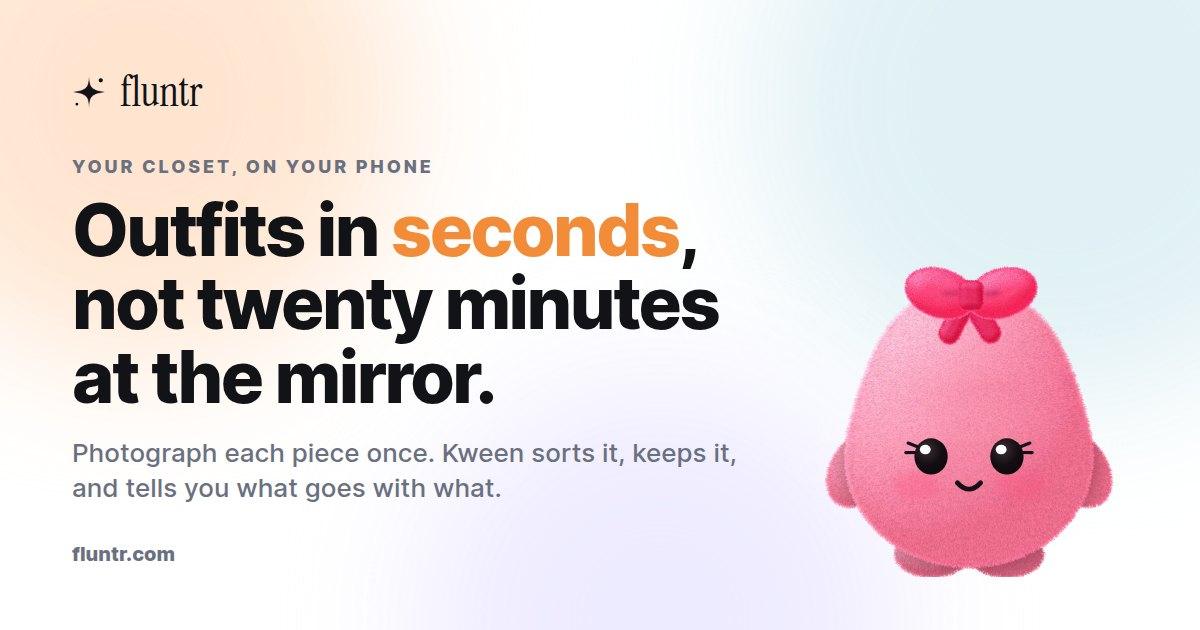
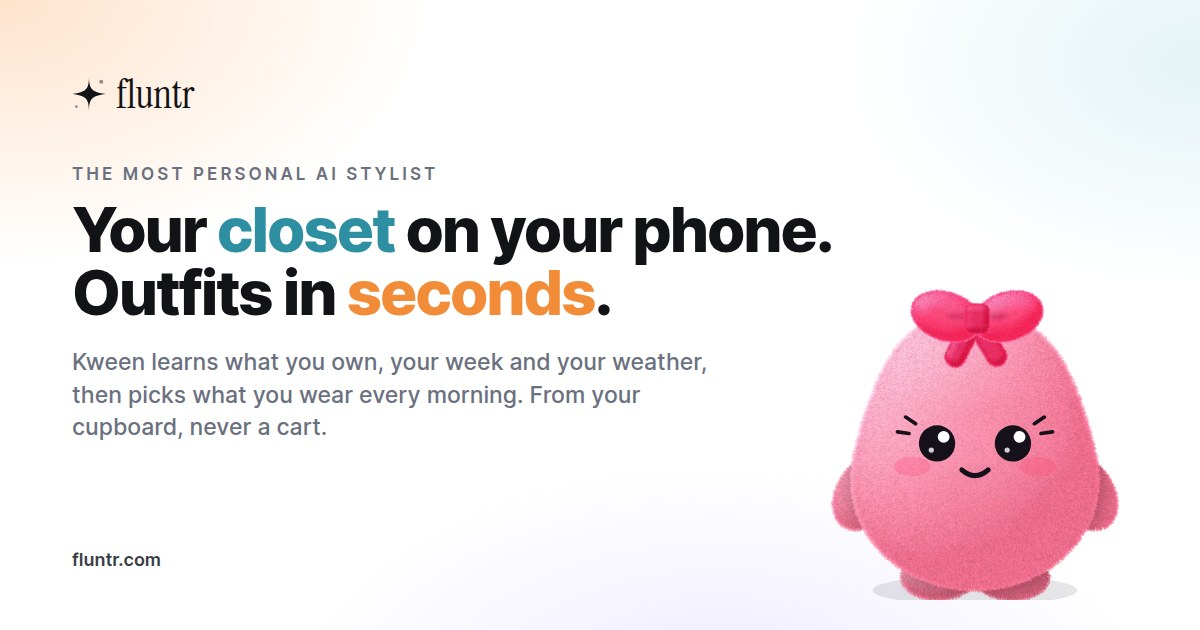
web: Fluntr is the most personal AI stylist, not only a closet
The site now says what the app is: a closet on your phone and the most
personal AI stylist, because Kween only knows your clothes, your city,
your week and your taste. New stylist section after the hero with the
app's Today card and what she does (daily outfit, fit check, events and
trips, wear history, insights, laundry), in the app's own words.

Headline, eyebrow, title, description, share image, structured data,
manifest, nav, the demo's last step, the questions pages and llms.txt
all carry the positioning. Two new questions explain it.

Claude-Session: https://claude.ai/code/session_01RpooKPm1A8SR7Pq2dxJABW

Changed region(s): [[0.0, 0.0, 1.0, 0.9651], [0.0617, 0.8746, 0.1542, 0.9048], [0.8942, 0.6032, 0.925, 0.6333]]

diff --git a/components/motion/Stylist.jsx b/components/motion/Stylist.jsx
@@ -1,0 +1,127 @@
+'use client'
+import { motion, useReducedMotion } from 'framer-motion'
+import TiltCard from './TiltCard'
+import { Device, Cut, Glyph, TabBar, byId } from './Demo'
+import { KweenPerch } from './KweenRoamer'
+
+/**
+ * The stylist. Fluntr is a closet on your phone and the most personal AI
+ * stylist there is, because Kween only knows your clothes, your city, your
+ * week and your taste. Everything listed here is what the app's stylist does
+ * (src/components/stylist, app/fit-check, app/day-events, app/outfit-calendar,
+ * app/insights, app/laundry), in the words the app uses.
+ */
+
+const INK = '#121317'
+const MUTED = '#6B7080'
+const FILL = 'rgba(118,118,128,0.10)'
+const SOFT = '#F5F5F7'
+
+const ROWS = [
+  { k: 'sun', tone: '#F28C38', title: 'Today’s outfit, every morning', body: 'For your weather, your dress code and your plans. Two alternatives a tap away, each with the reason it was picked. One tap logs it as worn.' },
+  { k: 'camera', tone: '#7B6CF6', title: 'Fit check', body: 'A mirror selfie: what works, the one change that would help most, and a score. Clothes only, never your body. The photo is deleted straight after.' },
+  { k: 'calendar', tone: '#2E8FA3', title: 'Events, festivals and trips', body: 'Weddings, interviews, Diwali, Eid, a trip. She plans the outfit days ahead and reminds you. Trips get a packing list for the weather there.' },
+  { k: 'clock', tone: '#4F9D6B', title: 'Wear history', body: 'Plan a day, mark it worn. She knows what has not been out in 60 days, and stops you repeating a look at the same event.' },
+  { k: 'stats', tone: '#3C6DD9', title: 'Insights', body: 'How much of your closet actually gets worn, cost per wear, your go-to pieces, and the gaps worth filling within your budget.' },
+  { k: 'water', tone: '#2E8FA3', title: 'Laundry', body: 'Put pieces in the wash from the Today card. She will not suggest them again until they are clean.' },
+]
+
+const list = { hidden: {}, show: { transition: { staggerChildren: 0.09, delayChildren: 0.1 } } }
+const item = { hidden: { opacity: 0, y: 18 }, show: { opacity: 1, y: 0, transition: { duration: 0.55, ease: [0.16, 1, 0.3, 1] } } }
+
+/** The Today card from the app's Home tab (src/components/stylist/TodayCard.tsx), at rest. */
+function TodayScreen() {
+  const reduce = useReducedMotion()
+  const outfit = ['kurti', 'jeans', 'sneakers']
+  return (
+    <div className="absolute inset-0 overflow-hidden" style={{ background: '#fff' }}>
+      <div className="flex items-center justify-between px-4 pt-[12%]">
+        <Glyph k="bell" size={22} sw={2} />
+        <span style={{ fontSize: 19, fontWeight: 800, letterSpacing: '-0.02em', color: '#0A0A0A' }}>Fluntr</span>
+        <Glyph k="chat" size={22} sw={2} />
+      </div>
+
+      <motion.div className="mx-3 mt-3" style={{ borderRadius: 22, background: '#fff', border: '1px solid rgba(10,10,10,0.08)', boxShadow: '0 4px 14px rgba(0,0,0,0.06)', padding: 14 }} variants={list} initial={reduce ? false : 'hidden'} whileInView="show" viewport={{ once: true, amount: 0.4 }}>
+        <div className="flex items-start justify-between">
+          <div>
+            <div style={{ fontSize: 15, fontWeight: 700, color: '#0A0A0A', letterSpacing: '-0.01em' }}>Good morning, Priya</div>
+            <div style={{ fontSize: 12, color: 'rgba(10,10,10,0.64)', marginTop: 2 }}>Smart casual · Tuesday</div>
+          </div>
+          <span className="flex items-center gap-1" style={{ background: FILL, borderRadius: 999, padding: '5px 9px', fontSize: 11.5, fontWeight: 600, color: '#0A0A0A' }}><Glyph k="sun" color="#F28C38" size={13} />31° / 24°</span>
+        </div>
+        <div className="mt-3 grid grid-cols-3 gap-2">
+          {outfit.map(id => (
+            <motion.div key={id} variants={item} className="relative overflow-hidden" style={{ aspectRatio: '1 / 1.15', borderRadius: 14, background: SOFT }}>
+              <div className="absolute inset-[9%]"><Cut id={id} /></div>
+            </motion.div>
+          ))}
+        </div>
+        <motion.div variants={item} className="mt-3 flex items-start gap-2" style={{ fontSize: 11.5, lineHeight: 1.35, color: 'rgba(10,10,10,0.64)' }}>
+          <Glyph k="sparkle" color="#F28C38" size={13} />
+          <span>Office day and 31°. The olive kurti has not been out in three weeks, and the sneakers go with everything.</span>
+        </motion.div>
+        <motion.div variants={item} className="mt-3 flex gap-2">
+          <motion.span className="flex flex-1 items-center justify-center gap-1.5" style={{ height: 40, borderRadius: 999, background: '#0A0A0A', color: '#fff', fontSize: 13, fontWeight: 600 }} animate={reduce ? undefined : { scale: [1, 1.03, 1] }} transition={{ duration: 1.6, repeat: Infinity, ease: 'easeInOut' }}><Glyph k="check" color="#fff" size={14} />Wearing this</motion.span>
+          <span className="flex items-center justify-center" style={{ height: 40, padding: '0 16px', borderRadius: 999, background: FILL, fontSize: 13, fontWeight: 600, color: '#0A0A0A' }}>Another</span>
+        </motion.div>
+        <motion.div variants={item} className="mt-3 flex items-center gap-2 pt-3" style={{ borderTop: '1px solid rgba(10,10,10,0.08)', fontSize: 12 }}>
+          <Glyph k="calendar" size={14} />
+          <span className="flex-1" style={{ color: '#0A0A0A', fontWeight: 500 }}>Wedding in 3 days</span>
+          <span style={{ fontWeight: 600, color: '#0A0A0A' }}>Plan outfit</span>
+        </motion.div>
+      </motion.div>
+
+      <div className="mx-3 mt-3" style={{ borderRadius: 22, background: SOFT, padding: 14 }}>
+        <div className="flex items-center justify-between" style={{ fontSize: 11.5, color: 'rgba(10,10,10,0.64)' }}><span>Quick question</span><span style={{ color: 'rgba(10,10,10,0.4)' }}>Not now</span></div>
+        <div className="mt-1.5" style={{ fontSize: 14, fontWeight: 600, color: '#0A0A0A' }}>How do you like tops to fit?</div>
+        <div className="mt-2.5 flex gap-2">
+          {['Fitted', 'Regular', 'Relaxed'].map((o, i) => <span key={o} style={{ height: 32, padding: '0 14px', borderRadius: 999, fontSize: 12, fontWeight: 600, lineHeight: '32px', background: i === 1 ? '#0A0A0A' : '#fff', color: i === 1 ? '#fff' : '#0A0A0A', border: '1px solid rgba(10,10,10,0.1)' }}>{o}</span>)}
+        </div>
+      </div>
+      <TabBar active="home" />
+    </div>
+  )
+}
+
+export default function Stylist() {
+  const reduce = useReducedMotion()
+  return (
+    <section id="stylist" className="relative scroll-mt-20 overflow-hidden px-4 py-20 md:px-6 md:py-28">
+      <div aria-hidden className="pointer-events-none absolute inset-0" style={{ background: 'radial-gradient(50% 45% at 85% 10%, rgba(242,140,56,0.12), transparent 60%), radial-gradient(45% 40% at 10% 90%, rgba(123,108,246,0.10), transparent 60%)' }} />
+      <div className="relative mx-auto max-w-6xl">
+        <motion.div initial={reduce ? false : { opacity: 0, y: 24 }} whileInView={{ opacity: 1, y: 0 }} viewport={{ once: true, amount: 0.4 }} transition={{ duration: 0.7, ease: [0.16, 1, 0.3, 1] }} className="max-w-3xl">
+          <p className="text-eyebrow mb-5">The most personal AI stylist</p>
+          <h2 className="h-display" style={{ fontSize: 'clamp(34px,4.6vw,64px)', color: INK }}>
+            She only knows <span style={{ color: '#F28C38' }}>your</span> clothes. That is the point.
+          </h2>
+          <p className="mt-6 max-w-2xl text-[18px] leading-relaxed md:text-[20px]" style={{ color: MUTED }}>
+            A shop’s stylist wants you to buy. Kween wants you to wear. She learns what you own, your city, your week and your taste, and picks from that, every morning, in English or Hindi. The answer is always something in your cupboard, never something in a cart.
+          </p>
+        </motion.div>
+
+        <div className="mt-14 grid items-start gap-12 lg:grid-cols-[minmax(0,360px)_1fr] lg:gap-16">
+          <div className="flex flex-col items-center lg:items-start">
+            <div className="relative" style={{ width: 'min(84vw, 340px)' }}>
+              <TiltCard max={5} sheen={false}><Device><TodayScreen /></Device></TiltCard>
+              <motion.span className="pointer-events-none absolute z-20 hidden whitespace-nowrap md:block" style={{ left: '-26%', top: '12%', background: '#F28C38', color: '#fff', borderRadius: 999, padding: '8px 14px', fontSize: 13, fontWeight: 700, boxShadow: '0 14px 30px -10px #F28C38aa' }} animate={reduce ? undefined : { y: [0, -7, 0] }} transition={{ duration: 3, repeat: Infinity, ease: 'easeInOut' }}>7:00 · your outfit is ready</motion.span>
+              <motion.span className="pointer-events-none absolute z-20 hidden whitespace-nowrap md:block" style={{ left: '74%', top: '58%', background: '#121317', color: '#fff', borderRadius: 999, padding: '8px 14px', fontSize: 13, fontWeight: 700, boxShadow: '0 14px 30px -10px #121317aa' }} animate={reduce ? undefined : { y: [0, -6, 0] }} transition={{ duration: 3.4, repeat: Infinity, ease: 'easeInOut', delay: 0.5 }}>31° · smart casual</motion.span>
+            </div>
+            <KweenPerch name="stylist" line="I know every piece you own. A shop’s stylist can’t say that." mood="smug" className="mt-8 hidden md:block" width="clamp(84px, 8vw, 110px)" />
+          </div>
+
+          <motion.ol className="grid gap-3 md:grid-cols-2" variants={list} initial={reduce ? false : 'hidden'} whileInView="show" viewport={{ once: true, amount: 0.2 }}>
+            {ROWS.map(r => (
+              <motion.li key={r.k} variants={item} className="glass flex gap-4 p-5" style={{ borderRadius: 24 }}>
+                <span className="flex h-11 w-11 shrink-0 items-center justify-center" style={{ borderRadius: 14, background: `${r.tone}1f` }}><Glyph k={r.k} color={r.tone} size={20} sw={2} /></span>
+                <div>
+                  <h3 style={{ fontSize: 17, fontWeight: 700, letterSpacing: '-0.01em', color: INK }}>{r.title}</h3>
+                  <p className="mt-1.5 text-[14.5px] leading-relaxed" style={{ color: MUTED }}>{r.body}</p>
+                </div>
+              </motion.li>
+            ))}
+          </motion.ol>
+        </div>
+      </div>
+    </section>
+  )
+}

diff --git a/pages/index.jsx b/pages/index.jsx
@@ -5,6 +5,7 @@ import WaitlistForm from '../components/WaitlistForm'
 import Reveal from '../components/motion/Reveal'
 import Demo, { Glyph } from '../components/motion/Demo'
 import Ticker from '../components/motion/Ticker'
+import Stylist from '../components/motion/Stylist'
 import Features from '../components/motion/Features'
 import Conversations from '../components/motion/Conversations'
 import Cursors from '../components/motion/Cursors'
@@ -33,7 +34,7 @@ const LD = {
   '@graph': [
     {
       '@type': 'Organization', '@id': 'https://fluntr.com/#org', name: 'Fluntr', legalName: 'Melchizedek Technologies Private Limited', url: 'https://fluntr.com/',
-      email: 'support@fluntr.com', areaServed: 'IN', description: 'Fluntr is a digital wardrobe and style app from India.',
+      email: 'support@fluntr.com', areaServed: 'IN', description: 'Fluntr is a digital wardrobe and personal AI stylist app from India.',
     },
     {
       '@type': 'WebSite', '@id': 'https://fluntr.com/#site', url: 'https://fluntr.com/', name: 'Fluntr', publisher: { '@id': 'https://fluntr.com/#org' },
@@ -41,9 +42,9 @@ const LD = {
     {
       '@type': 'SoftwareApplication', '@id': 'https://fluntr.com/#app', name: 'Fluntr', applicationCategory: 'LifestyleApplication', operatingSystem: 'iOS, Android',
       url: 'https://fluntr.com/', author: { '@id': 'https://fluntr.com/#org' },
-      description: 'Photograph the clothes you own and Fluntr turns them into a closet you can see and search on your phone, plans outfits from it, and lets you post looks and ask friends which to wear. Kween, the in-app stylist, suggests outfits from your own clothes.',
-      featureList: ['Digital wardrobe from photos', 'Background removed on the device', 'Automatic category, colour and occasion', 'Outfit planning from your own closet', 'Post looks and ask friends', 'Kween, an in-app stylist'],
-      keywords: 'digital wardrobe app, closet organiser app, outfit planner, AI stylist, what to wear today, virtual closet, wardrobe app India, OOTD, fit check, capsule wardrobe',
+      description: 'Photograph the clothes you own and Fluntr turns them into a closet you can see and search on your phone. Kween, the most personal AI stylist, learns what you own, your city, your week and your taste, and picks your outfit every morning from your own clothes: for the weather, your dress code and your plans. Fit checks from a mirror selfie, outfits planned for weddings, festivals and trips, wear history, laundry and wardrobe insights. Post looks and ask friends which to wear.',
+      featureList: ['Digital wardrobe from photos', 'Background removed on the device', 'Automatic category, colour and occasion', 'Personal AI stylist that picks an outfit every morning', 'Fit check from a mirror selfie', 'Outfits planned for weddings, festivals and trips', 'Outfit calendar and wear history', 'Laundry and wardrobe insights', 'Post looks and ask friends', 'English and Hindi'],
+      keywords: 'personal AI stylist, AI stylist app, digital wardrobe app, closet organiser app, outfit planner, what to wear today, outfit of the day, fit check app, virtual closet, wardrobe app India, OOTD, capsule wardrobe, what to wear to a wedding',
     },
   ],
 }
@@ -66,24 +67,24 @@ function Hero() {
       <div className="relative z-10 mx-auto max-w-5xl text-center">
         <Cursors />
         <Reveal from="none">
-          <p className="text-eyebrow mb-7">Your closet, on your phone</p>
+          <p className="text-eyebrow mb-7">Your closet on your phone. The most personal AI stylist.</p>
         </Reveal>
         <Reveal delay={0.08}>
           <h1 className="h-display mx-auto" style={{ fontSize: 'clamp(36px,4.4vw,58px)', color: INK, textWrap: 'balance' }}>
             Your <PillWord tone="#2E8FA3" soft="#E4F3F6" icon="closet">closet</PillWord>{' '}
             <span style={{ color: '#9AA0A6' }}>on your phone.</span>
-            <br className="hidden md:block" />{' '}
-            Outfits in <PillWord tone="#F28C38" soft="#FFF0E3" icon="sparkle">seconds</PillWord>
-            <span style={{ color: '#9AA0A6' }}>, not twenty</span>
-            <br className="hidden md:block" />{' '}
-            <span style={{ color: '#9AA0A6' }}>minutes at the</span>{' '}
-            <PillWord tone="#7B6CF6" soft="#EEEBFF" icon="camera">mirror</PillWord>
+            <br />{' '}
+            The most personal <PillWord tone="#F28C38" soft="#FFF0E3" icon="sparkle">stylist</PillWord>
+            <span style={{ color: '#9AA0A6' }}>.</span>
+            <br />{' '}
+            <span style={{ color: '#9AA0A6' }}>Outfits in</span>{' '}
+            <PillWord tone="#7B6CF6" soft="#EEEBFF" icon="clock">seconds</PillWord>
             <span style={{ color: '#9AA0A6' }}>.</span>
           </h1>
         </Reveal>
         <Reveal delay={0.3} blur>
           <p className="mx-auto mt-8 max-w-2xl text-[18px] leading-relaxed md:text-[21px]" style={{ color: MUTED }}>
-            Photograph each piece once. Kween sorts it, keeps it, and tells you what goes with what.
+            Photograph each piece once. Kween learns what you own, your week and your weather, then picks what you wear every morning.
             Dressed for <Typed words={['weddings', 'the office', 'Diwali', 'a first date', 'brunch', 'the airport']} style={{ color: INK, fontWeight: 600 }} />
           </p>
         </Reveal>
@@ -150,12 +151,12 @@ export default function Home() {
   return (
     <>
       <Head>
-        <title>Fluntr - Your closet on your phone, outfits in seconds</title>
-        <meta name="description" content="Photograph each piece once. Kween sorts it, keeps it, and tells you what goes with what. Your whole closet on your phone, and outfits in seconds instead of twenty minutes at the mirror." />
+        <title>Fluntr - Your closet on your phone. The most personal AI stylist.</title>
+        <meta name="description" content="Photograph your clothes once. Fluntr keeps your whole closet on your phone, and Kween, the most personal AI stylist, picks your outfit every morning from what you actually own: for your weather, your dress code and your plans. Fit checks, wedding and festival outfits, wear history." />
         <meta name="viewport" content="width=device-width, initial-scale=1" />
         <link rel="canonical" href="https://fluntr.com/" />
-        <meta property="og:title" content="Fluntr - Your closet on your phone, outfits in seconds" />
-        <meta property="og:description" content="Photograph each piece once. Kween sorts it, keeps it, and tells you what goes with what." />
+        <meta property="og:title" content="Fluntr - Your closet on your phone. The most personal AI stylist." />
+        <meta property="og:description" content="Kween learns what you own, your week and your weather, then picks what you wear every morning. From your cupboard, never a cart." />
         <meta property="og:type" content="website" />
         <meta property="og:url" content="https://fluntr.com/" />
         <meta property="og:image" content="https://fluntr.com/og/default.jpg" />
@@ -168,6 +169,7 @@ export default function Home() {
       <Nav />
       <main>
         <Hero />
+      <Stylist />
         <Ticker />
         <Features />
         <Conversations />

diff --git a/content/questions.js b/content/questions.js
@@ -88,6 +88,8 @@ export const TOPICS = [
     blurb: 'The pink plush with the bow. Short answers, from the clothes you own.',
     qa: [
       ['Who is Kween?', 'Fluntr’s mascot and stylist: a soft pink plush with a velvet bow who lives in your closet. She fills in category and colour when you add a piece, nudges you when something has not been worn for a while, and answers "what do I wear" with outfits from your own clothes. You can rename her and change her colour in the app.'],
+      ['Why is Fluntr called the most personal AI stylist?', 'Because Kween only knows you. A shop’s stylist knows a catalogue; Kween knows every piece in your cupboard, your city’s weather, your dress code for each weekday, the wedding you have on Saturday, what you wore last Diwali and how you like your tops to fit. Every suggestion comes from that, so it is always something you own and can wear this morning.'],
+      ['What does Fluntr’s AI stylist actually do?', 'Every morning Kween picks an outfit from your closet for the weather, your dress code and your plans, with two alternatives and the reason for each; one tap logs it as worn. She does fit checks from a mirror selfie (clothes only, the photo is deleted after), plans outfits days ahead for weddings, interviews, festivals and trips with a packing list, keeps your outfit calendar and wear history, tracks what is in the laundry, and shows which pieces get worn, cost per wear and the gaps worth filling. She works in English and Hindi.'],
       ['How is an AI stylist different from a shopping app?', 'A shopping app wants you to buy. A stylist that knows your closet wants you to wear. Kween only recommends from what you own, so the answer to "what goes with this" is always something in your cupboard, not something in a cart.'],
       ['Can Kween tell me what to wear for a specific event?', 'Yes. Tell her the occasion ("wedding on Saturday", "office, it is raining", "date, somewhere casual") and she pulls two or three outfits from your closet. The more of your wardrobe is photographed, the better the answers.'],
       ['Does Kween see my photos?', 'Background removal and categorising run on your phone. Your closet is private by default; you choose what to post and who sees it.'],
@@ -98,7 +100,7 @@ export const TOPICS = [
     title: 'About Fluntr',
     blurb: 'What it is, what it costs, where it runs.',
     qa: [
-      ['What is Fluntr?', 'Fluntr is a digital wardrobe and style app from India. You photograph the clothes you own, the app turns them into a closet you can see and search on your phone, plans outfits from it, and lets you post looks and ask friends which to wear. Kween, the in-app stylist, suggests outfits from your own clothes.'],
+      ['What is Fluntr?', 'Fluntr is a digital wardrobe and the most personal AI stylist, from India. You photograph the clothes you own and the app turns them into a closet you can see and search on your phone. Kween, the stylist, learns what you own, your city, your week and your taste, and picks your outfit every morning from your own clothes. You can also post looks and ask friends which to wear.'],
       ['Is Fluntr available now?', 'It is in a waitlist stage. Join the waitlist at fluntr.com and we will message you once, on the day it opens.'],
       ['Which phones does Fluntr work on?', 'It is built for iOS and Android. The web is for the waitlist, the demo and these pages.'],
       ['Is Fluntr free?', 'Joining the waitlist is free. Pricing for the app will be published when it opens; nothing on this site is a price promise.'],

diff --git a/components/motion/Demo.jsx b/components/motion/Demo.jsx
@@ -66,7 +66,7 @@ const STEPS = [
   { k: 'details', title: 'Kween fills in the details.', body: 'Category, colours, fabric, occasion. Check them, fix anything, save.', line: 'I filled it in. Fix anything I got wrong.' },
   { k: 'closet', title: 'It lands in your closet.', body: 'Every piece you own, cut out and in one grid you can actually look through.', line: 'That’s your closet. Finally.' },
   { k: 'feed', title: 'Post it, or ask first.', body: 'Put a look up and see what people think while you still have time to change.', line: 'Now post it. Or ask me.' },
-  { k: 'kween', title: 'Ask Kween.', body: 'Short answers, from the clothes you actually own.', line: 'Go on. Ask me something.' },
+  { k: 'kween', title: 'Ask your stylist.', body: 'Short answers, from the clothes you actually own. Kween only knows your closet, which is what makes her the most personal stylist there is.', line: 'Go on. Ask me something.' },
 ]
 
 const COLLECTIONS = ['My Closet', 'Office wear', 'Festive']
@@ -128,6 +128,8 @@ export function Glyph({ k, color = INK, size = 13, sw = 1.8 }) {
     case 'stats': return <svg viewBox="0 0 24 24" style={s}><path {...p} d="M4 20V10M10 20V4M16 20v-8M22 20H2" /></svg>
     case 'shirt': return <svg viewBox="0 0 24 24" style={s}><path {...p} d="M8 4 4 7l2 4 2-1v10h8V10l2 1 2-4-4-3a4 4 0 0 1-8 0z" /></svg>
     case 'send': return <svg viewBox="0 0 24 24" style={s}><path {...p} d="M21 3 10 14M21 3l-7 18-4-7-7-4z" /></svg>
+    case 'clock': return <svg viewBox="0 0 24 24" style={s}><circle {...p} cx="12" cy="12" r="8.5" /><path {...p} d="M12 7.5V12l3 2" /></svg>
+    case 'sun': return <svg viewBox="0 0 24 24" style={s}><circle {...p} cx="12" cy="12" r="4" /><path {...p} d="M12 3v2M12 19v2M3 12h2M19 12h2M5.6 5.6l1.4 1.4M17 17l1.4 1.4M5.6 18.4 7 17M17 7l1.4-1.4" /></svg>
     case 'spin': return <svg viewBox="0 0 24 24" style={s}><path {...p} stroke={color} strokeWidth="2.4" d="M12 3a9 9 0 1 1-9 9" /></svg>
     default: return null
   }

diff --git a/pages/questions/index.jsx b/pages/questions/index.jsx
@@ -28,7 +28,7 @@ export default function Questions() {
         <meta name="description" content="Plain answers to the questions people actually ask: what to wear today, Diwali and wedding outfits, shopping without buying twice, mirror selfies and fit checks, digitising your wardrobe, and what Fluntr and Kween do." />
         <link rel="canonical" href="https://fluntr.com/questions" />
         <meta property="og:title" content="What to wear, how to shop, how to organise your closet - Fluntr answers" />
-        <meta property="og:description" content="Outfit, shopping, festival, Instagram and closet questions, answered. Plus what Fluntr is and how Kween, its stylist, works." />
+        <meta property="og:description" content="Outfit, shopping, festival, Instagram and closet questions, answered. Plus what Fluntr is and how Kween, its personal AI stylist, works." />
         <meta property="og:type" content="article" />
         <meta property="og:url" content="https://fluntr.com/questions" />
         <meta property="og:image" content="https://fluntr.com/og/questions.jpg" />
@@ -43,7 +43,7 @@ export default function Questions() {
             Everything people ask about getting dressed.
           </h1>
           <p className="mt-6 max-w-2xl text-[18px] leading-relaxed" style={{ color: MUTED }}>
-            What to wear, what to buy, how to photograph it and how to find it again. Short answers, from people building a closet app, with how Fluntr helps where it actually does. Fluntr is pre-launch; nothing here is a promise.
+            What to wear, what to buy, how to photograph it and how to find it again. Short answers, from the people building a closet app with a personal AI stylist in it, with how Fluntr helps where it actually does. Fluntr is pre-launch; nothing here is a promise.
           </p>
           <nav aria-label="Topics" className="mt-8 flex flex-wrap gap-2">
             {TOPICS.map(t => (

diff --git a/pages/questions/[slug].jsx b/pages/questions/[slug].jsx
@@ -68,7 +68,7 @@ export default function Question({ item, topic, siblings, next }) {
           <div className="mt-10 flex flex-wrap items-end gap-6">
             <div className="glass flex-1 px-6 py-6" style={{ borderRadius: 24, minWidth: 260 }}>
               <p className="text-eyebrow mb-2">Fluntr</p>
-              <p className="text-[15px] leading-relaxed" style={{ color: MUTED }}>Photograph the clothes you own; Kween, the in-app stylist, answers this from your own closet. Pre-launch, waitlist open.</p>
+              <p className="text-[15px] leading-relaxed" style={{ color: MUTED }}>Photograph the clothes you own; Kween, the most personal AI stylist, answers this from your own closet. Pre-launch, waitlist open.</p>
               <div className="mt-4 flex flex-wrap gap-3">
                 <Link href="/#waitlist" className="btn-primary" style={{ padding: '12px 20px', fontSize: 14 }}>Join the waitlist →</Link>
                 <Link href="/#how" className="btn-glass glass" style={{ padding: '12px 20px', fontSize: 14 }}>Try the demo</Link>

diff --git a/components/motion/Features.jsx b/components/motion/Features.jsx
@@ -84,7 +84,7 @@ export default function Features() {
         <Card
           tone="#7B6CF6"
           title="Kween knows your closet."
-          body="Short answers from the clothes you actually own, not a shop. Ask about Saturday, about the office, about what you have been ignoring."
+          body="Ask about Saturday, about the office, about what you have been ignoring. Short answers from the clothes you actually own, which is what makes her the most personal stylist there is."
           props={[{ text: 'Saturday · Wedding', left: '-28%', top: '20%' }, { text: '3 picks', left: '80%', top: '66%', tone: '#F28C38' }]}
         >
           <KweenScreen preset={1} mood={mood} talking={talking} setMood={setMood} setTalking={setTalking} />

diff --git a/components/Nav.jsx b/components/Nav.jsx
@@ -37,7 +37,7 @@ export default function Nav() {
         </Link>
 
         <div className="hidden items-center gap-7 md:flex">
-          {[['/#how', 'Try it'], ['/#app', 'The app'], ['/#features', 'Kween'], ['/questions', 'Questions']].map(([href, label]) => (
+          {[['/#how', 'Try it'], ['/#app', 'The app'], ['/#stylist', 'Stylist'], ['/questions', 'Questions']].map(([href, label]) => (
             <Link key={href} href={href} className="text-[14px] font-medium no-underline transition-colors hover:text-[#121317]" style={{ color: '#3A3D45' }}>
               {label}
             </Link>
